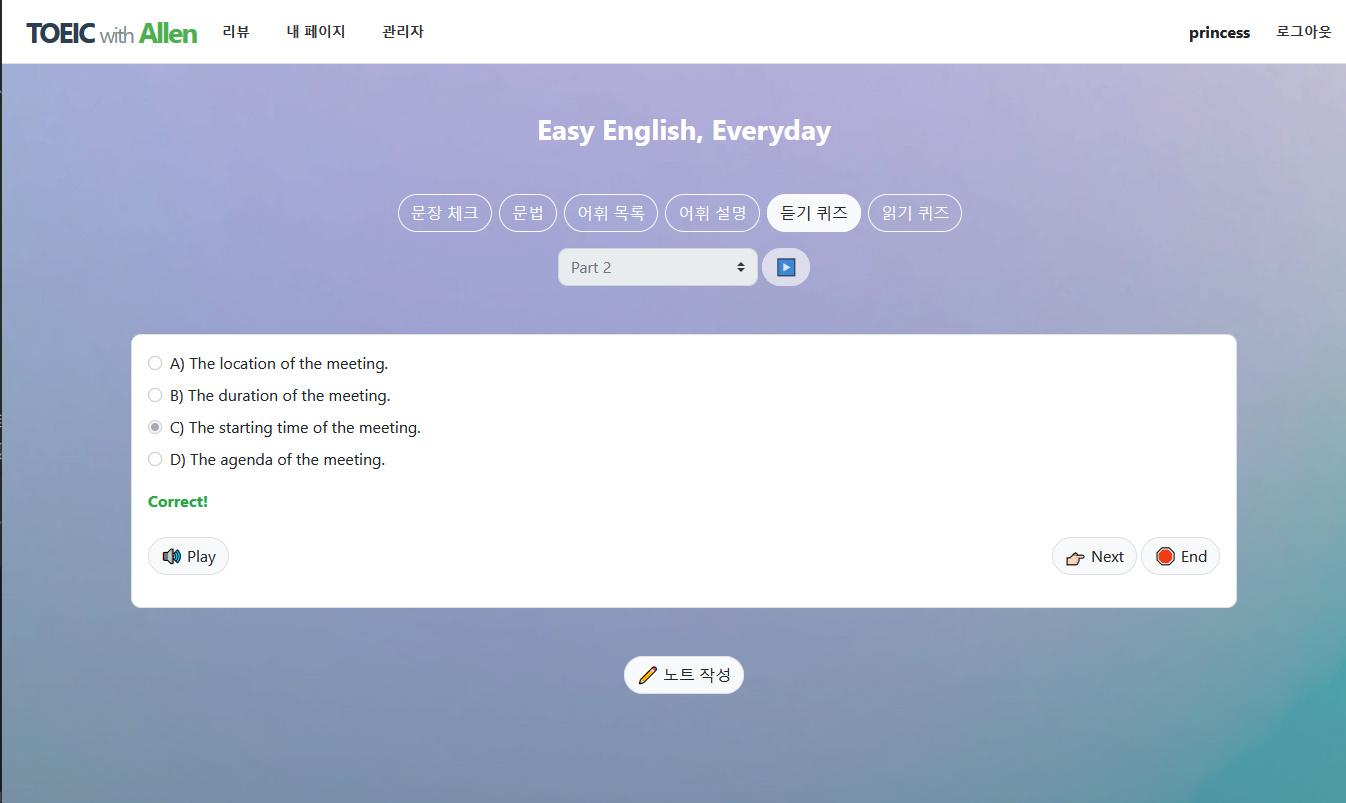
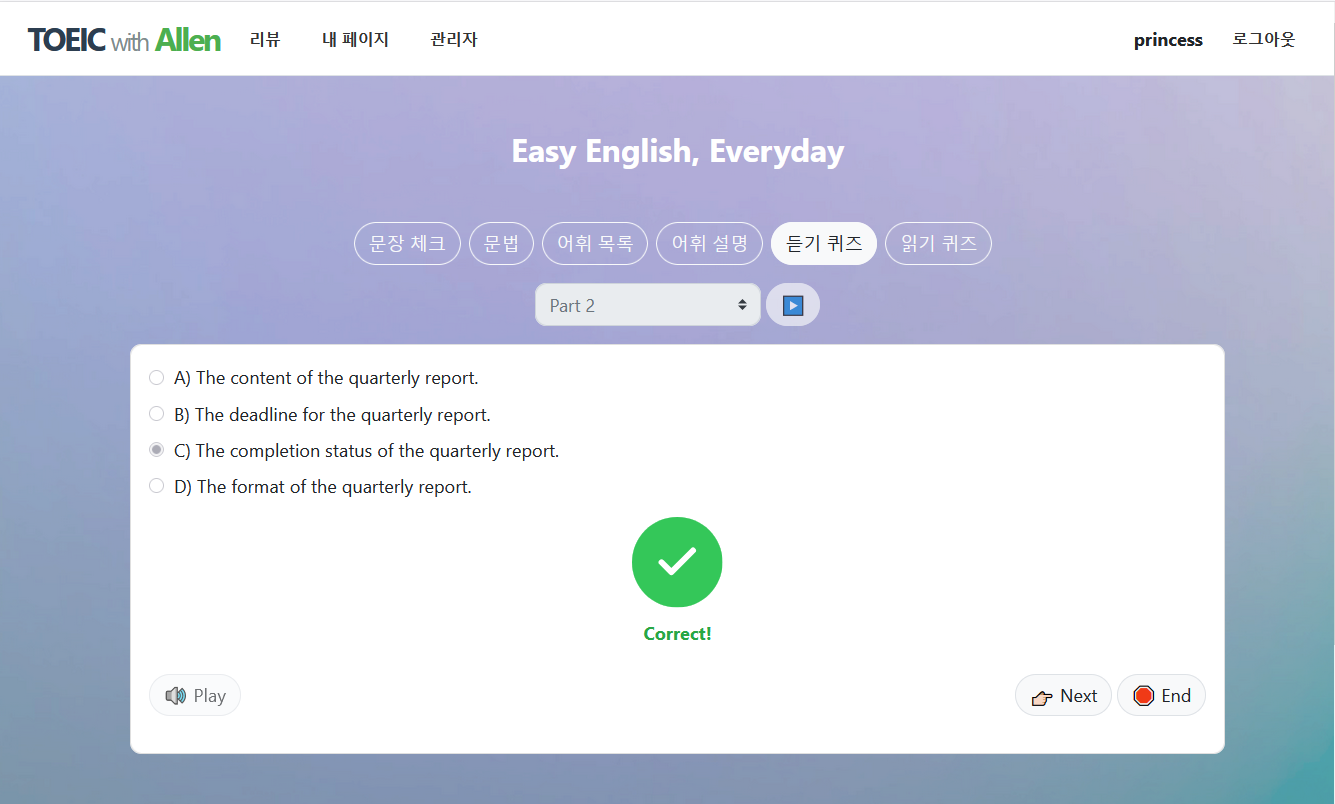
1. Add animation for correct/incorrect answer of quiz using lottie.min.js 2. Modify README file

diff --git a/src/main/resources/static/js/index.js b/src/main/resources/static/js/index.js
@@ -326,7 +326,7 @@ document.addEventListener("DOMContentLoaded", function () {
         const optionsHTML = Object.entries(answerChoices).map(([key, value]) =>
         `<label for="choice-${key}" style="display: inline-flex; align-items: center; margin-bottom: 8px; cursor: pointer;">
         <input type="radio" name="answer" value="${key}" id="choice-${key}" style="margin-right: 8px; cursor: pointer;">${key}) ${value}</label><br>`).join('');
-        const feedbackHTML = `<div id="quiz-feedback" class="mt-2"></div>`;
+        const feedbackHTML = `<div id="quiz-feedback" class="mt-2 text-center"></div>`;
 
         if (categorySelect.value === "읽기 퀴즈") {
             resultText.innerHTML = passageHTML + questionHTML + `<div id="quiz-options">${optionsHTML}</div>` + feedbackHTML;
@@ -348,13 +348,37 @@ document.addEventListener("DOMContentLoaded", function () {
                 const selected = this.value;
                 const feedback = document.getElementById("quiz-feedback");
 
-                if (selected === correctAnswer) {
-                    feedback.innerHTML = `<p class="text-success"><strong>Correct!</strong></p>`;
-                } else {
-                    feedback.innerHTML = `<p class="text-danger"><strong>Incorrect.</strong> Correct answer is ${correctAnswer}.</p>`;
-                }
+                // Clear previous feedback
+                feedback.innerHTML = "";
 
-                // Optional: disable all options after selection
+                // Create a container for animation
+                const animationContainer = document.createElement("div");
+                animationContainer.style.width = "80px";
+                animationContainer.style.height = "80px";
+                animationContainer.style.margin = "0 auto";
+                feedback.appendChild(animationContainer);
+
+                // Determine correct animation path
+                const animationPath = selected === correctAnswer
+                    ? "animations/success.json"
+                    : "animations/fail.json";
+
+                // Load animation using Lottie
+                lottie.loadAnimation({
+                    container: animationContainer,
+                    renderer: "svg",
+                    loop: false,
+                    autoplay: true,
+                    path: animationPath
+                });
+
+                const feedbackText = document.createElement("p");
+                feedbackText.innerHTML = selected === correctAnswer
+                    ? `<strong class="text-success">Correct!</strong>`
+                    : `<strong class="text-danger">Incorrect.</strong> Correct answer is ${correctAnswer}.`;
+                feedback.appendChild(feedbackText);
+
+                // Disable all options after selection
                 document.querySelectorAll('input[name="answer"]').forEach(input => input.disabled = true);
 
                 // Show the "Next Question" button after answer

diff --git a/src/main/resources/templates/index.html b/src/main/resources/templates/index.html
@@ -99,6 +99,7 @@
     </div>
 </div>
 <script src="https://cdn.jsdelivr.net/npm/marked/marked.min.js"></script>
+<script src="https://cdnjs.cloudflare.com/ajax/libs/bodymovin/5.12.2/lottie.min.js"></script>
 <script src="/js/index.js"></script>
 </body>
 </html>

diff --git a/README.md b/README.md
@@ -23,17 +23,13 @@
 | Layer                | Technology                                                                                     |
 |----------------------|------------------------------------------------------------------------------------------------|
 | **Backend**          | Spring Boot, Spring Security, Spring Scheduler, JPA, MyBatis, Lombok, RESTful API architecture |
-| **Frontend**         | Thymeleaf, Bootstrap, HTML, CSS, JS                                                            |
-| **AI Integration**   | Allen AI API                                                                                   |
+| **Frontend**         | Thymeleaf, Bootstrap, HTML, CSS, JavaScript, Quill.js, lottie.min.js                           |
+| **API**              | RESTful API architecture, JSON responses                                                       |
+| **Integrations**     | Allen AI API, OAuth2 (Google Login), Long Polling                                              |
 | **Database**         | MySQL                                                                                          |
-| **Messaging**        | Long pooling                                                                                   |
-| **Login**            | Oauth2 (Google)                                                                                |
-| **Rich Text Editor** | Quill.js                                                                                       |
-| **API Tools**        | REST APIs with JSON responses                                                                  |
+| **DevOps / Infra**   | AWS EC2, Gradle                                                                                |
 | **UI/UX Design**     | Figma                                                                                          |
 | **DB Design**        | ERD Cloud                                                                                      |
-| **Infra**            | AWS EC2                                                                                        |
-| **Build Tool**       | Gradle                                                                                         |
 
 ---
 
@@ -80,7 +76,7 @@
 ### 🏠 Main Page
 ![Main Page](screenshots/main-page.png)
 
-## 💡 Ask Allen AI – Grammar Help
+### 💡 Grammar Help
 ![Ask Allen AI](screenshots/ask-ai.png)
 
 ### 🎧 TOEIC Listening Quiz
